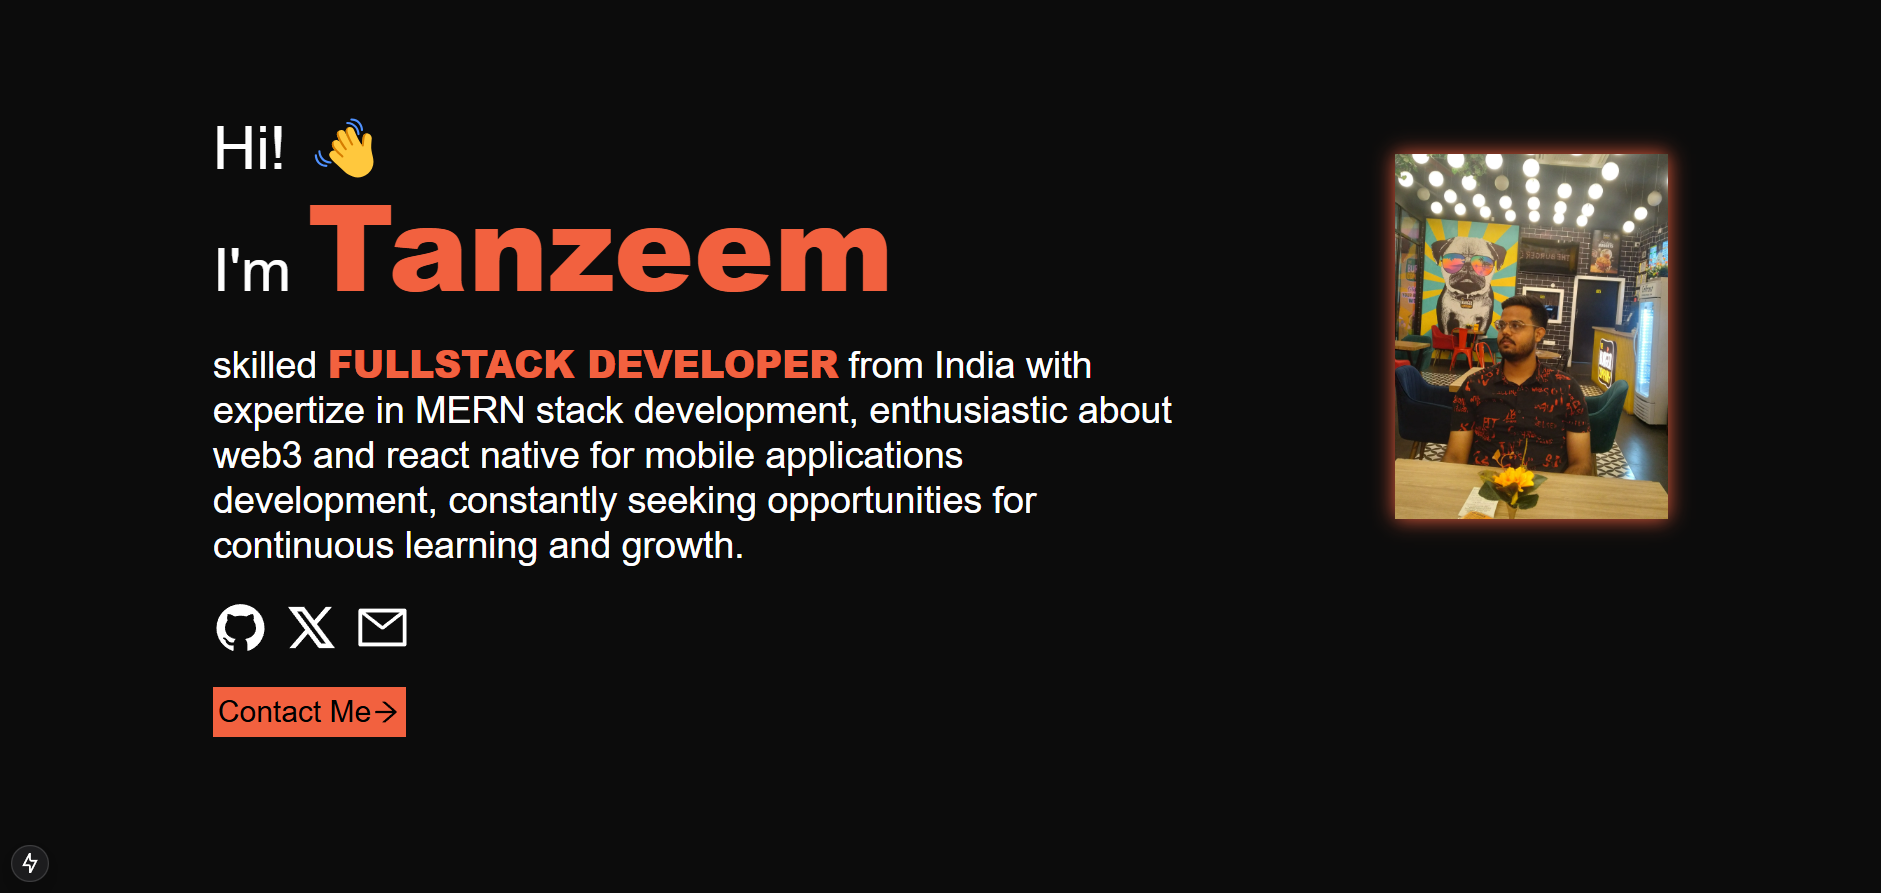
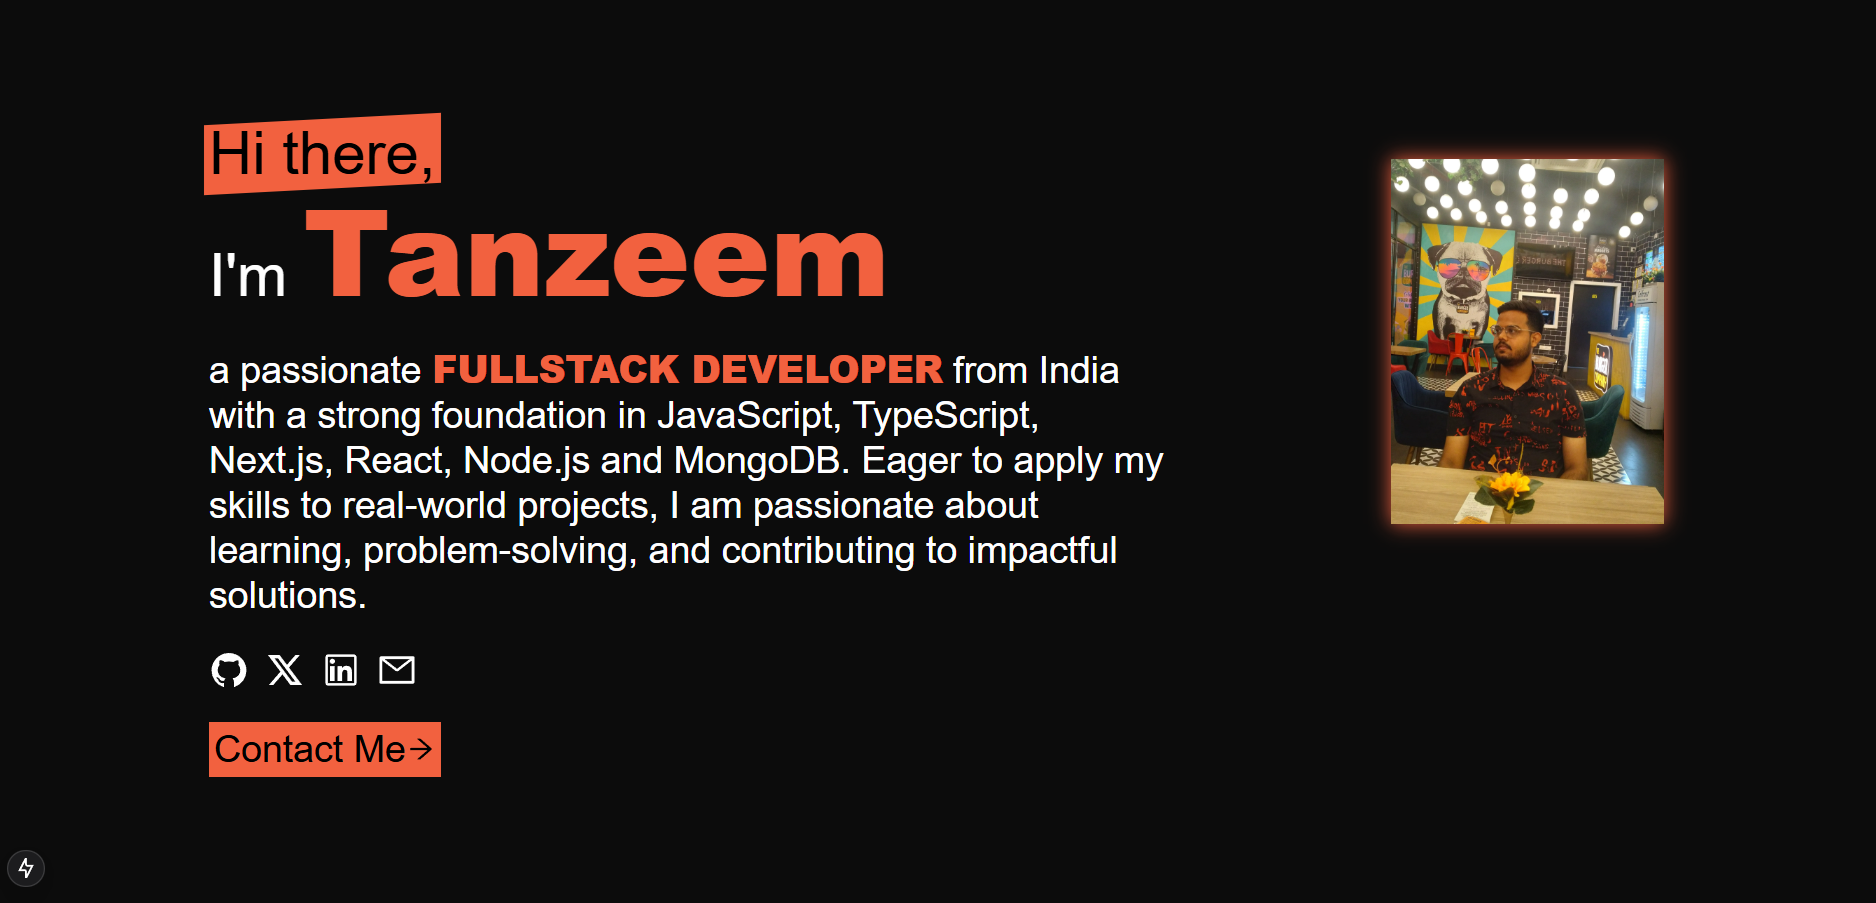
updated the components

diff --git a/components/about.tsx b/components/about.tsx
@@ -1,9 +1,9 @@
 import {
   AiFillGithub,
   AiOutlineArrowRight,
+  AiOutlineLinkedin,
   AiOutlineMail,
 } from "react-icons/ai";
-import { BsChevronDown } from "react-icons/bs";
 import "./About.css";
 import { text } from "@/helpers/text";
 import ProfileImage from "./../images/profile-img.jpg";
@@ -17,8 +17,13 @@ export default function About() {
       <div className="bg">
         <div className="about-wrapper">
           <div className="about-text">
-            <div className="about-title mt-4">
-              <h1 className="text-5xl">{text.en.aboutHi}</h1>
+            <div className="about-title sm:mt-4 mt-6">
+              <span className="before:block before:absolute before:-inset-1 before:-skew-y-3 before:bg-[#f2613f] relative inline-block">
+                <span className="relative text-black text-5xl">
+                  {text.en.aboutHi}
+                </span>
+              </span>
+              {/* <h1 className="text-5xl">{text.en.aboutHi}</h1> */}
               <h1 className="text-5xl mt-1">
                 {text.en.aboutIam}{" "}
                 <span className="tanzeem text-8xl">{text.en.aboutName}</span>
@@ -38,16 +43,21 @@ export default function About() {
               <Link href="https://x.com/Tanzeem_Dev">
                 <RiTwitterXLine className="icon" />
               </Link>
+              <Link href="https://www.linkedin.com/in/mr-tanzeem/">
+                <AiOutlineLinkedin className="icon" />
+              </Link>
               <Link href="mailto:dev.tanzeem@gmail.com">
                 <AiOutlineMail className="icon" />
               </Link>
             </div>
-            <Link href="mailto:dev.tanzeem@gmail.com" className="icons">
-              <button className="flex flex-nowrap justify-stretch text-2xl p-1 items-center bg-[#f2613f] text-black hover:bg-[#d25036]">
-                {text.en.contactButton}
-                <AiOutlineArrowRight className="text-2xl" />
-              </button>
-            </Link>
+            <div className="icons">
+              <Link href="mailto:dev.tanzeem@gmail.com">
+                <button className="flex flex-nowrap justify-stretch text-3xl p-1 items-center bg-[#f2613f] text-black hover:bg-[#d25036]">
+                  {text.en.contactButton}
+                  <AiOutlineArrowRight className="text-2xl" />
+                </button>
+              </Link>
+            </div>
           </div>
           <div className="about-avatar filter drop-shadow-crimson">
             <Image src={ProfileImage} alt="bg-img" />

diff --git a/helpers/text.ts b/helpers/text.ts
@@ -6,26 +6,26 @@ export const text = {
     // projetcs page
     projects: projectsEn,
     projectsHeading: "Projects",
-    projectsDescription: "Take a look at my web development projects:",
+    projectsDescription: "Check out the web development projects I've built!",
     projectsViewMore: "View More",
     projectsViewLess: "View Less",
 
     // skillset page
     skills: skillsEn,
-    skillsetHeading: "Skillset",
-    skillsetDescription: "Technologies I use in my development:",
+    skillsetHeading: "Skills",
+    skillsetDescription: "Tools & Technologies I work with.",
 
     // contact page
     contactHeading: "Contact Me",
 
     // about page
-    aboutHi: "Hi! 👋",
+    aboutHi: "Hi there,",
     aboutIam: "I'm",
     aboutName: "Tanzeem",
-    aboutSkilled: "skilled",
+    aboutSkilled: "a passionate",
     aboutRole: "fullstack developer",
     aboutText:
-      "from India with expertize in MERN stack development, enthusiastic about web3 and react native for mobile applications development, constantly seeking opportunities for continuous learning and growth.",
+      "from India with a strong foundation in JavaScript, TypeScript, Next.js, React, Node.js and MongoDB. Eager to apply my skills to real-world projects, I am passionate about learning, problem-solving, and contributing to impactful solutions.",
 
     // others
     contactButton: "Contact Me",

diff --git a/components/projects.tsx b/components/projects.tsx
@@ -46,7 +46,7 @@ const Projects = () => {
                 <div className="project-tags flex flex-wrap gap-1 items-center">
                   {project.technologies.map((tech: Skill) => {
                     return (
-                      <a key={uuidv4()} href={tech.url}>
+                      <Link key={uuidv4()} href={tech.url}>
                         <div className="tech-tag flex items-center gap-1 bg-cyan-100 text-black p-1 rounded-lg">
                           <Image
                             alt="text-img"
@@ -55,7 +55,7 @@ const Projects = () => {
                           />
                           <div>{tech.name}</div>
                         </div>
-                      </a>
+                      </Link>
                     );
                   })}
                 </div>

diff --git a/components/config2.ts b/components/config2.ts
@@ -35,7 +35,7 @@ export const projectsEn: Project[] = [
       "Redux",
       "JestJs",
       "javascript",
-      "css",
+      "TailwindCSS",
       "git",
       "npm",
     ]),
@@ -46,8 +46,15 @@ export const projectsEn: Project[] = [
       "Explore my portfolio for a glimpse into my diverse projects and coding expertise.",
     image: PortfolioNew,
     url: "https://tanzeem.me/",
-    github: "https://github.com/tanzeem131/portfolio",
-    technologies: getSkill(["TypeScript", "NEXT.js", "css", "git", "npm"]),
+    github: "https://github.com/tanzeem131/tanzeem.me",
+    technologies: getSkill([
+      "TypeScript",
+      "NEXT.js",
+      "TailwindCSS",
+      "css",
+      "git",
+      "npm",
+    ]),
   },
   {
     name: "Forkify",

diff --git a/components/config.ts b/components/config.ts
@@ -21,6 +21,7 @@ import Redux from "@/images/redux.png";
 import Canvas from "@/images/canvashtml.jpg";
 import Jest from "@/images/jest.png";
 import Sass from "@/images/sass.svg";
+import Tailwindcss from "@/images/tailwindcss.png";
 
 export type Skill = {
   name: string;
@@ -114,6 +115,11 @@ export const allSkills: Skill[] = [
     name: "CSS",
     url: "https://developer.mozilla.org/en-US/docs/Web/CSS",
     img: CSS,
+  },
+  {
+    name: "TailwindCSS",
+    url: "https://tailwindcss.com/",
+    img: Tailwindcss,
   },
   {
     name: "Sass",

diff --git a/components/skills.tsx b/components/skills.tsx
@@ -7,7 +7,7 @@ import Link from "next/link";
 
 export default function Skills() {
   return (
-    <div className="bg-skills" id="more">
+    <div className="bg-skills">
       <p className="sm:text-8xl text-3xl sm:font-extrabold font-bold">
         {text.en.skillsetHeading}
       </p>

diff --git a/components/Skills.css b/components/Skills.css
@@ -14,8 +14,8 @@
   display: grid;
   grid-template-columns: 1fr 1fr 1fr 1fr 1fr 1fr 1fr;
   margin-top: 1vh;
-  margin-bottom: 3vh;
-  gap: 2rem;
+  margin-bottom: 1vh;
+  gap: 0rem;
 }
 
 .skills-type {

diff --git a/components/About.css b/components/About.css
@@ -60,7 +60,7 @@
 }
 
 .icons {
-  font-size: 2.75rem;
+  font-size: 2rem;
   color: var(--text-white);
   display: flex;
   flex-direction: row;
